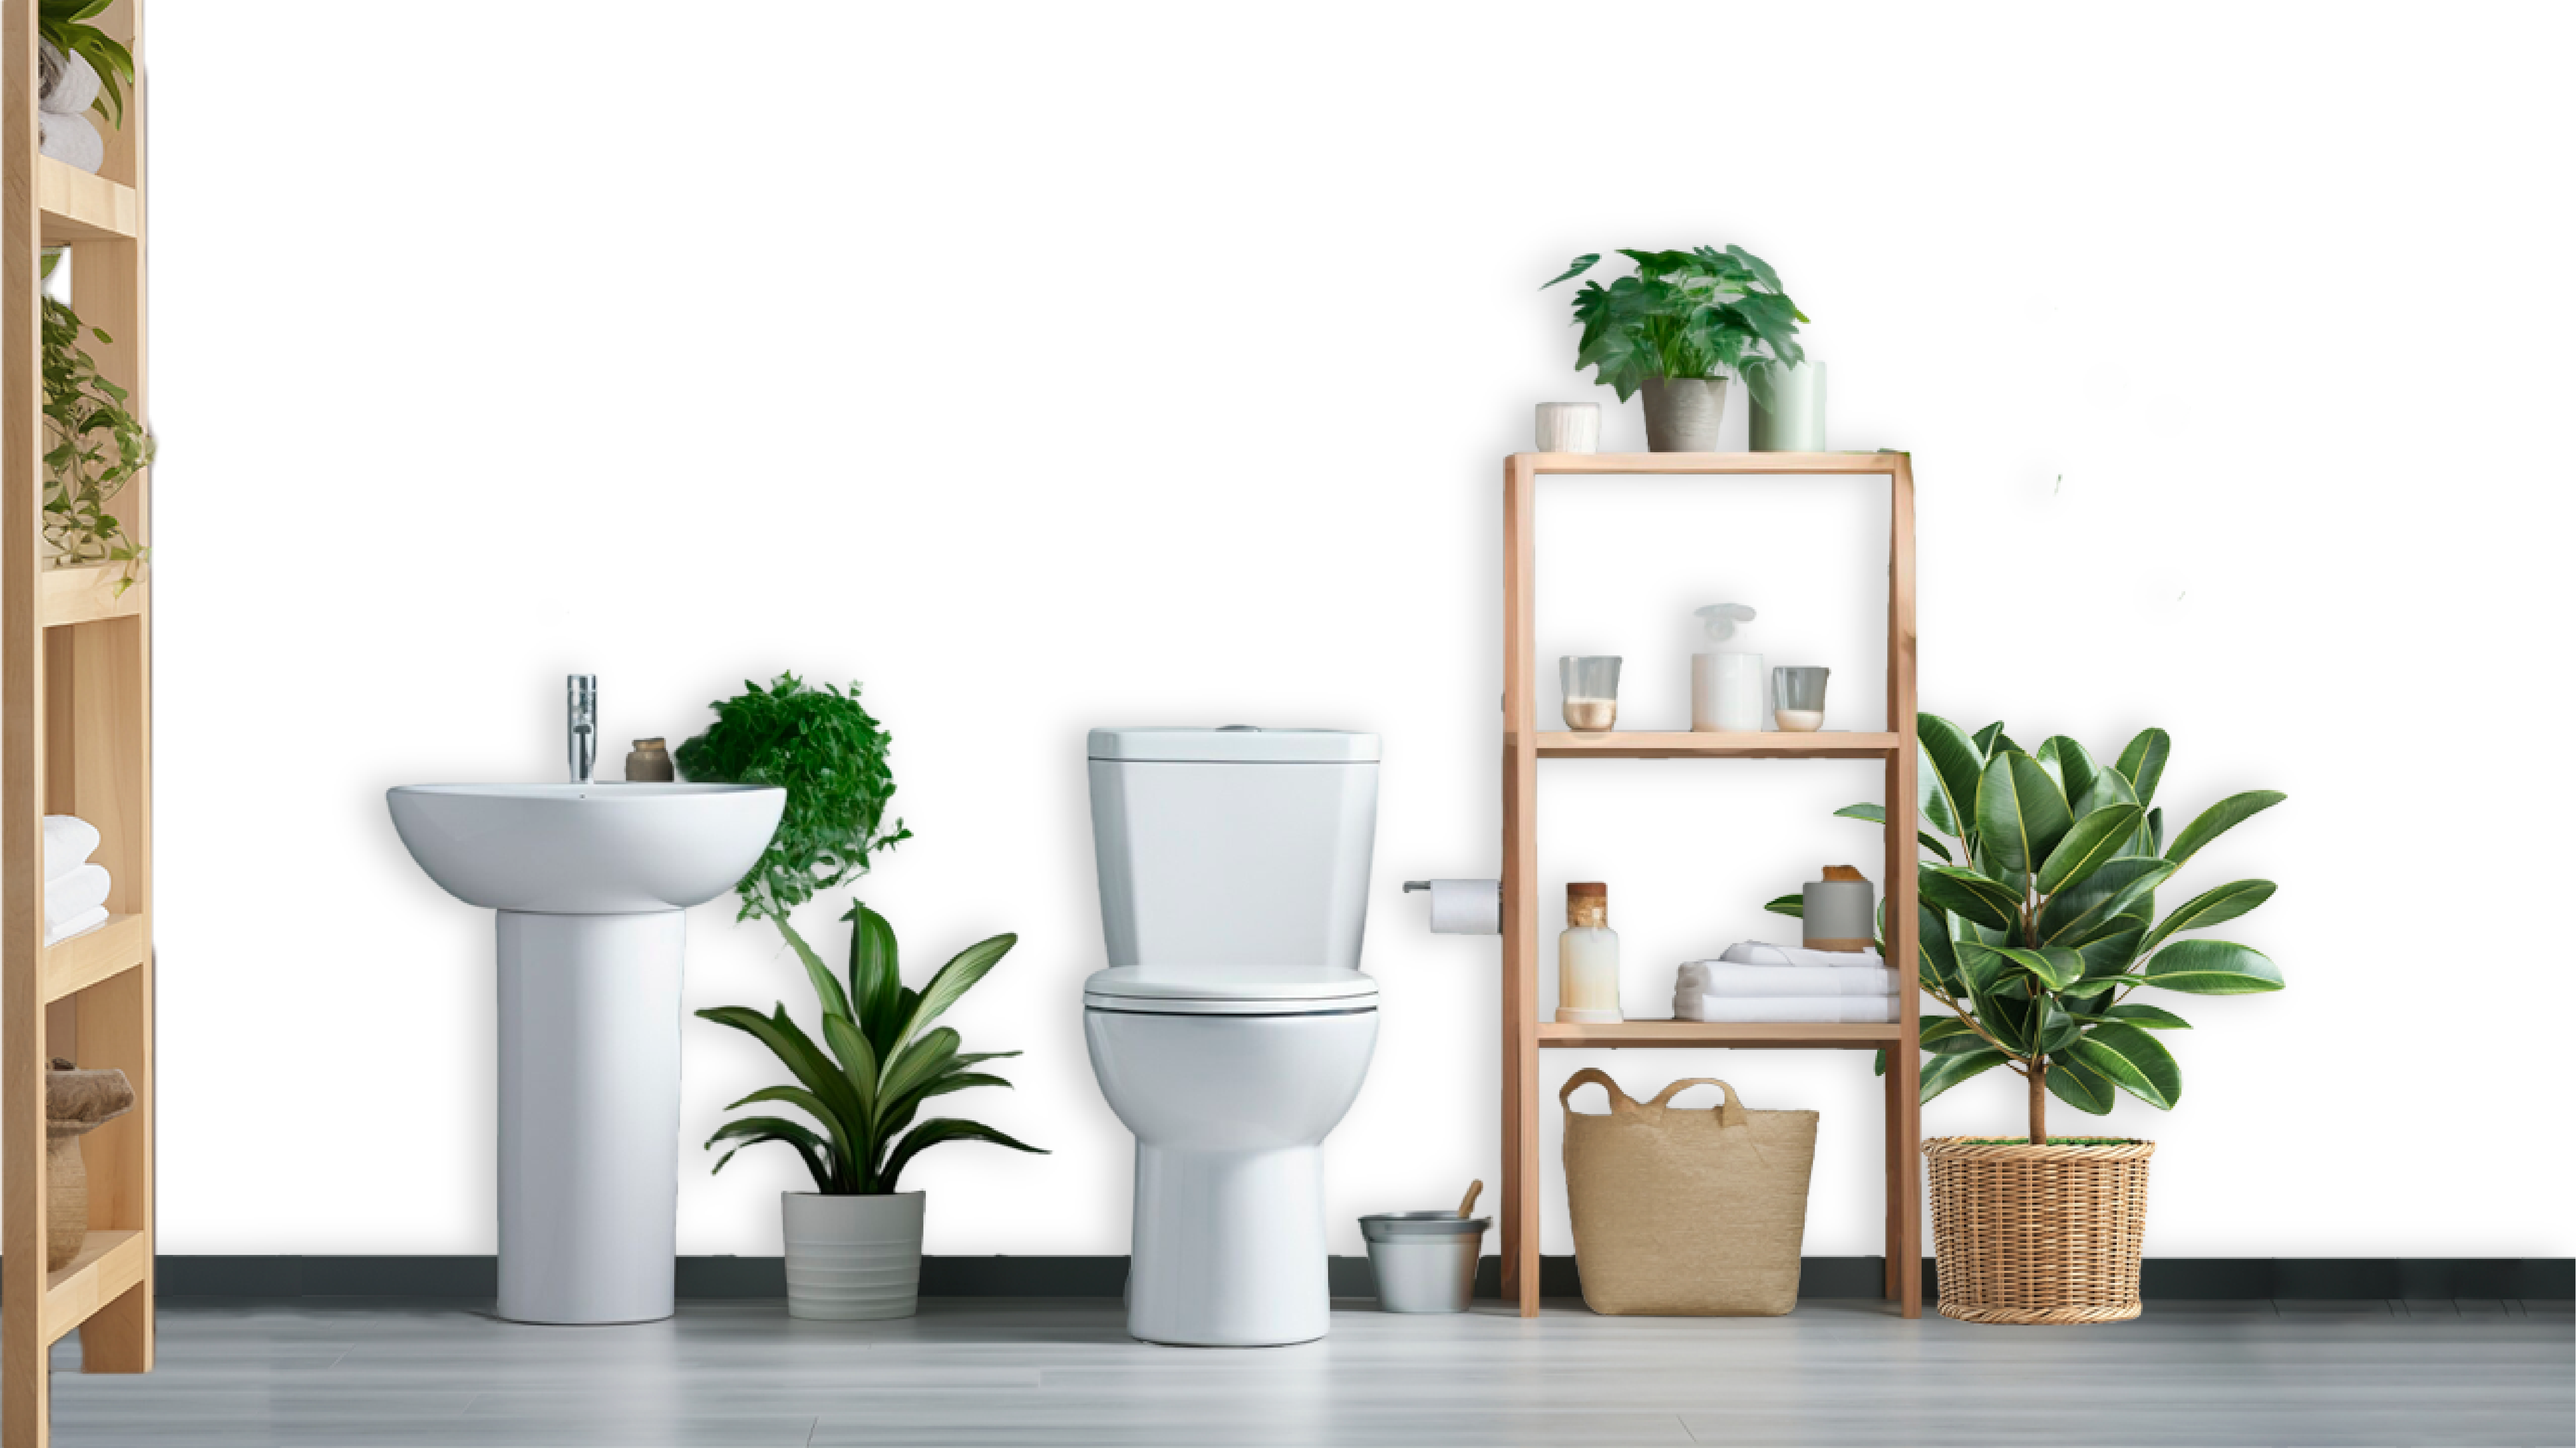
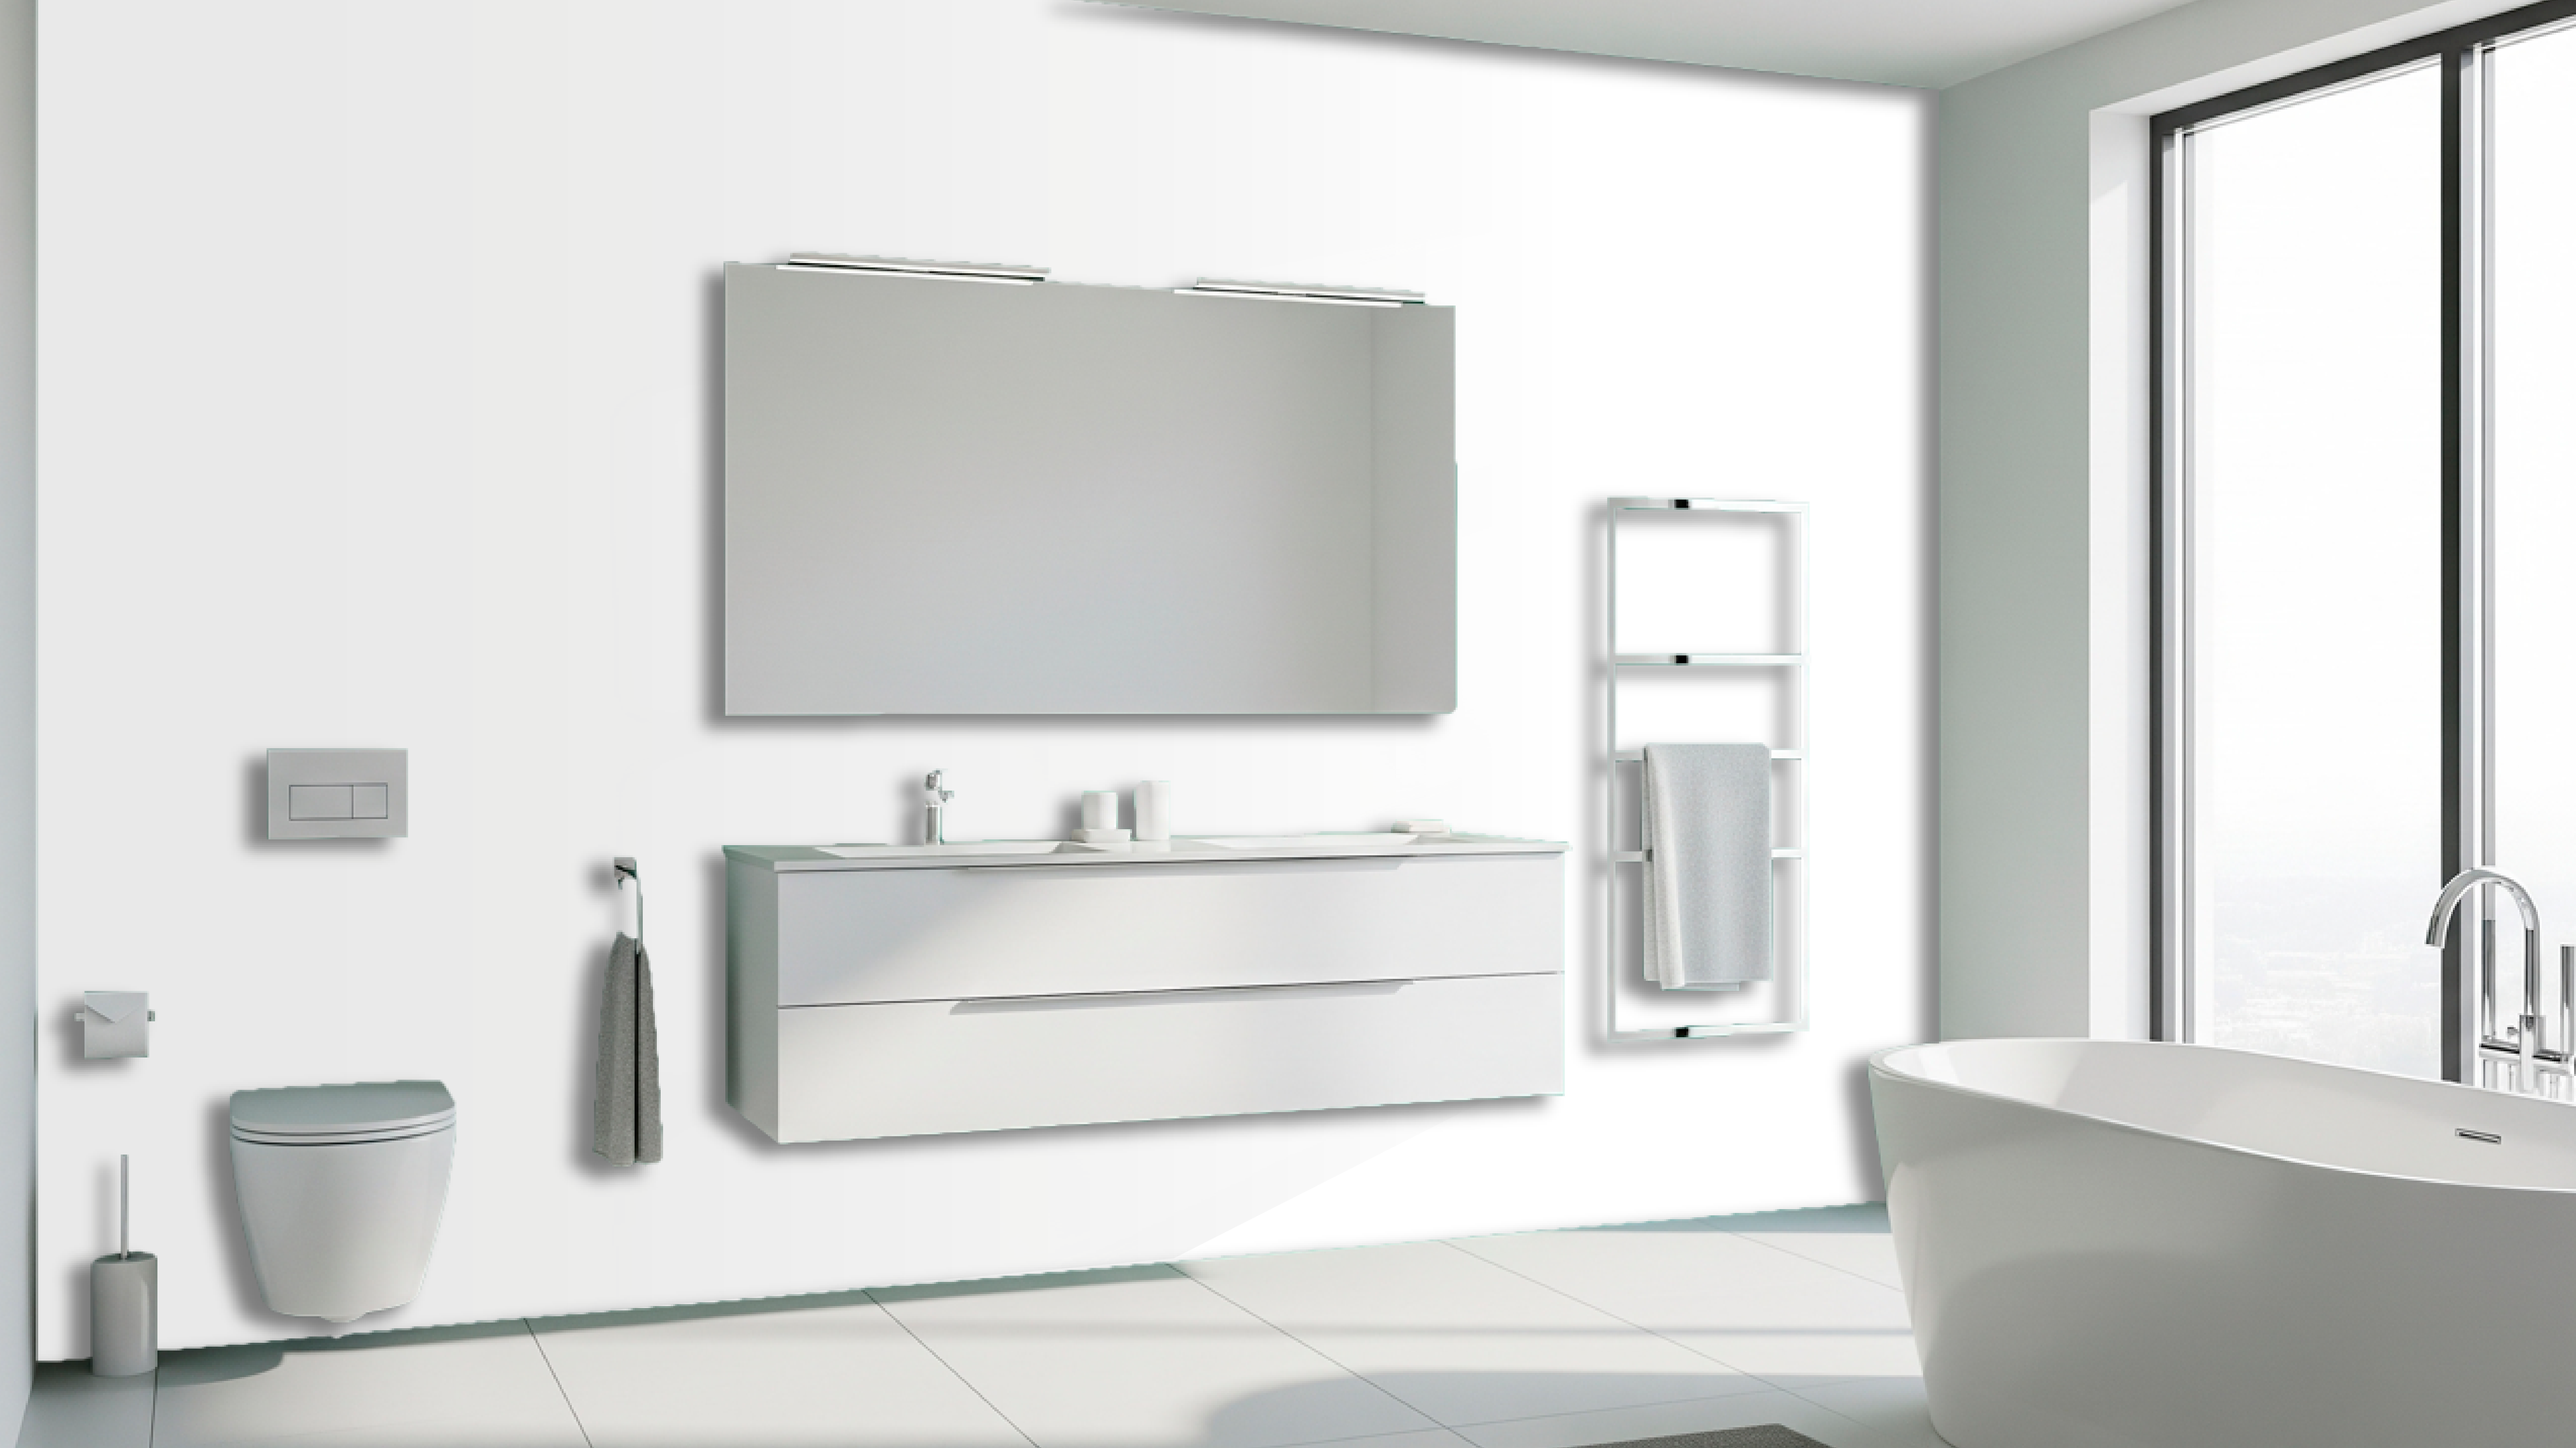
chore (decorador_virtual) Se añadio fachada y cambio baño

diff --git a/decorador_virtual/script.min.js b/decorador_virtual/script.min.js
@@ -3,7 +3,8 @@ document.addEventListener('DOMContentLoaded', function() {
     const roomImages = {
         habitacion: "images/habitacion.png",
         sala: "images/sala.png",
-        bano: "images/bano.png"
+        bano: "images/bano.png",
+        fachada: "images/fachada.png"
     };
 
     const colorPalettes = {

diff --git a/decorador_virtual/index.php b/decorador_virtual/index.php
@@ -88,6 +88,9 @@
                 <div class="room-option" data-room="">
                     <i class="fas fa-times"></i> Selecciona escena
                 </div>
+                <div class="room-option" data-room="fachada">
+                    <i class="fas fa-house"></i> Fachada
+                </div>
                 <div class="room-option" data-room="habitacion">
                     <i class="fas fa-bed"></i> Habitación
                 </div>
